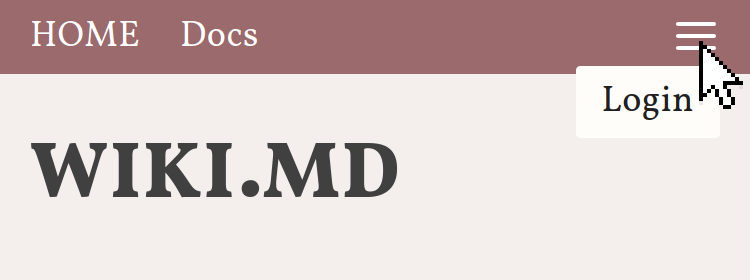
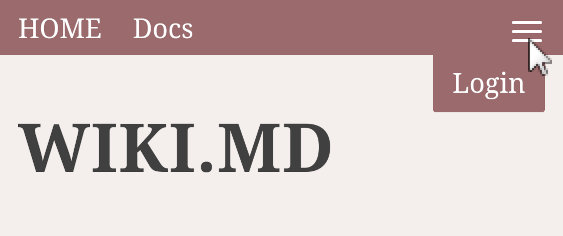
updated docs & screenshots

diff --git a/src/plugins/user/_plugin.php b/src/plugins/user/_plugin.php
@@ -106,6 +106,7 @@ if (!class_exists('\at\nerdreich\wiki\UserPlugin')) {
             if ($this->mayUserAdmin($wikiPath)) {
                 $infos['folder'] = $wikiPath;
 
+                $permissions = [];
                 if ($yaml = $this->user->loadPermissionFileFS($wikiPath)) {
                     // TODO: remove hardcoded values from plugins
                     foreach (['pageCreate', 'pageRead', 'pageUpdate', 'pageDelete', 'userAdmin', 'mediaAdmin'] as $permission) {

diff --git a/docs/primer.md b/docs/primer.md
@@ -6,11 +6,11 @@ This primer will give you an overview how to use wiki.md.
 
 In most configurations, viewing wiki.md pages will not require you to login, but editing them will. You can explicitly log-in by opening the menu and choosing _Login_:
 
-<img src="primer_login.png" alt="[Login Menu]" width="256"/>
+![Login Menu](primer_login.png)
 
 The Login-Screen will show up:
 
-<img src="primer_password.png" alt="[Password entry]" width="256"/>
+![Password entry](primer_password.png)
 
 (In case your site admin has turned on simple logins, there is no _username_, just a password.) Enter your credentials and click login.
 
@@ -18,7 +18,7 @@ The Login-Screen will show up:
 
 When viewing a page, choose _Edit_ from the menu to edit it (login might be required). The Edit-Screen consists of three fields:
 
-<img src="primer_edit.png" alt="[Editor]" width="256"/>
+![Editor](primer_edit.png)
 
 The first field is the page title. It defaults to the page name (URL), but you may change it or even leave it empty. It will be convertet to the page headline (`<h1>`) when viewing the page.
 
@@ -37,7 +37,7 @@ To create a new page you have two options:
 
 In both cases, provided you have permissions to create pages in the folder you choose, you will be prompted to create the page:
 
-<img src="primer_create.png" alt="[Create page]" width="256"/>
+![Create page](primer_create.png)
 
 Once you click on it, you will be shown a new, empty editor page. Unless you save this new page there, the page will not be actually created.
 
@@ -45,7 +45,7 @@ Once you click on it, you will be shown a new, empty editor page. Unless you sav
 
 wiki.md will record all changes to each page. You can view a page's history by choosing *History* from its menu:
 
-<img src="primer_history.png" alt="[Page history]" width="256"/>
+![Page history](primer_history.png)
 
 The page history will display the author, time of each change and what changed.
 
@@ -55,6 +55,6 @@ To revert to a previous version, click on the corresponding *restore* link. This
 
 wiki.md will keep you logged in until you clear your browser's cache. To manually logout, open the menu and choose _Logout_. You will be immediately logged out.
 
-<img src="primer_logout.png" alt="[Logout Menu]" width="256"/>
+![Logout Menu](primer_logout.png)
 
 Depending on your permissions and the page you are at, you might see more items in that menu.

diff --git a/docs/themes_create.md b/docs/themes_create.md
@@ -23,7 +23,7 @@ Your theme files can assume the following global variables to be present when ca
 
 `_theme.php` is called first by the core to bootstrap your theme. It might define helper methods and setup other global stuff your theme might need. `_theme.php` should not output any HTML markup and is _not_ in charge to load the other theme files - wiki.md's core will do that.
 
-### Template files
+## Template files
 
 Each of the `*.php` files mentioned above has to output a complete HTML page, starting with `<!doctype html>` and ending with `</html>`. Like **Elegant** you might want to use additional includes to output common elements like headers or navigation elements.
 

diff --git a/docs/snippets.md b/docs/snippets.md
@@ -8,7 +8,7 @@ A snippet is Markdown file to be included in other pages. **Elegant**, wiki.md's
 * `_banner.md` - the headline area below the navigation bar
 * `_nav.md` - the site navigation (to the right at desktop resolutions, to the bottom on mobile)
 
-<img src="snippets.png" alt="[Default Snippets]" width="512"/>
+![Default snippets](snippets.png)
 
 To differentiate snippets from regular pages, they start with an underscore (`_`). However, they are still Markdown files and can be edited using the page editor.
 

diff --git a/docs/permissions.md b/docs/permissions.md
@@ -15,7 +15,7 @@ Plugins and themes might add more permissions - check their documentation.
 
 To define permissions for a folder, navigate to any page and choose _Permissions_ from the menu.
 
-<img src="permissions.png" alt="[Folder Editor]" width="512"/>
+![Folder Editor](permissions.png)
 
 The restrictions you define for a folder will be valid for that folder, as well as all its sub-folders.
 

diff --git a/docs/roadmap.md b/docs/roadmap.md
@@ -2,11 +2,6 @@
 
 This document contains a backlog of things to (maybe) do next:
 
-### Planned for v2.1.0
-
-* update docs / screenshots
-* upgrade instructions
-
 ### Backlog (unscheduled)
 
 * rename-page feature
